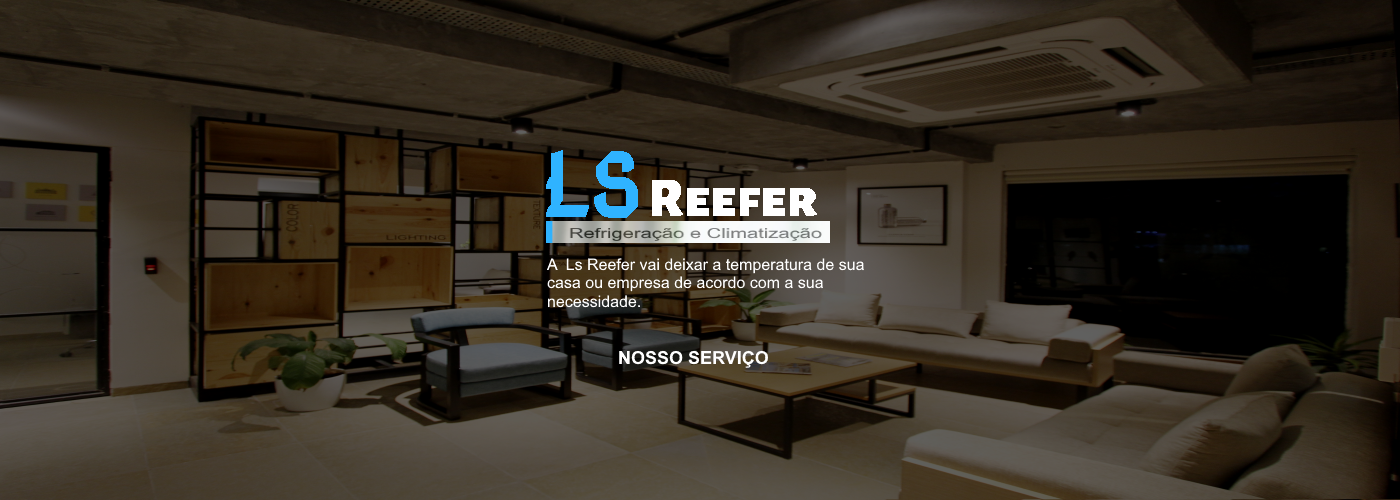
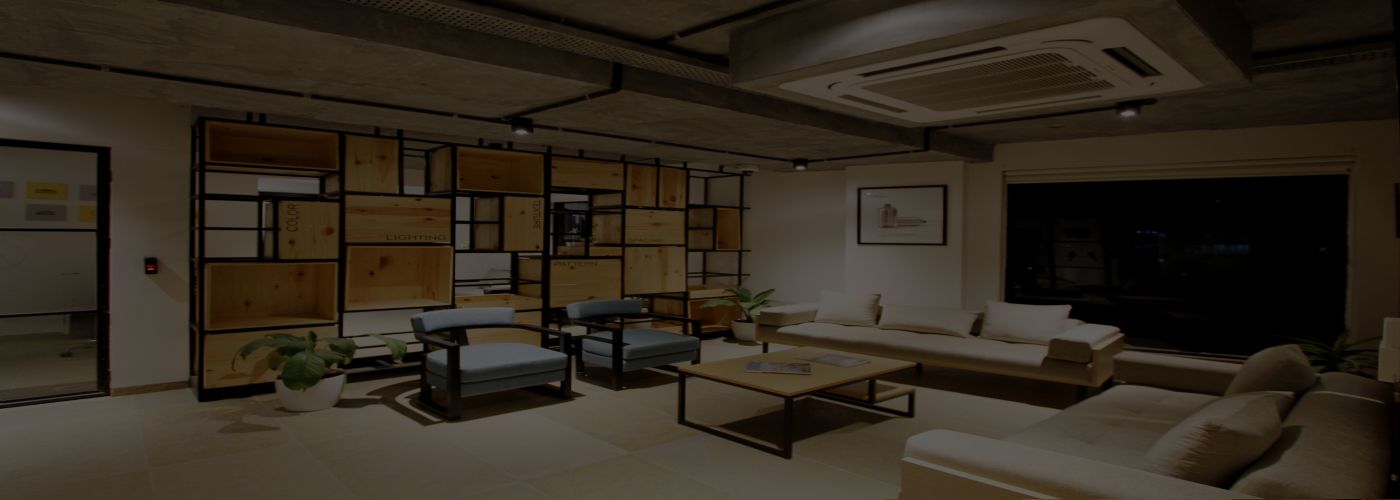
melhorando a sessao serviços

Changed region(s): [[0.3686, 0.3, 0.6143, 0.63], [0.43, 0.69, 0.5529, 0.75]]

diff --git a/manutencao_preventiva.html b/manutencao_preventiva.html
@@ -8,6 +8,7 @@
         <meta http-equiv="X-UA-Compatible" content="ie=edge">
         <title>Ls Reffer</title>
         <link href="https://fonts.googleapis.com/css?family=Open+Sans:300,400&display=swap" rel="stylesheet">
+        <link rel="stylesheet" href="css/style_servicos.css">
         <link rel="stylesheet" href="css/font-awesome.min.css">
         <link rel="stylesheet" href="css/style.css">
         <link rel="stylesheet" href="css/animationPencil.css">
@@ -17,6 +18,7 @@
     <body>
 
         <style>
+          
             header {
                 margin-bottom: 40px;
                 background-image: url(image/bannerServico.png);
@@ -25,79 +27,7 @@
                 background-size: cover ;
                 background-position: center;
             }
-            .icons-social a i {
-                margin-top: 0px;
-                margin-right: 15px;
-            }
-            .icons-social a { 
-                font-size: 35px;
-            }
-           
-            .chamada-servico h2 {
-                background-color: #333;
-            }
-            .center-arrow {
-                position: absolute;
-                top: 75%;
-                left: 49%;
-                transform: translate(-50% -50%);
-                -moz-transform: translate(-50% -50%);
-                -moz-transform: translate(-50% -50%);
-                -o-transform: translate(-50% -50%);
-                width: 0;
-                height: 100px;
-                border-left: 6px dashed rgba(255, 255, 255, 0.479);
-            }
-            .arrow {
-                position: absolute;
-                top: 0;
-                left: -6px;
-                height: 30px;
-                width: 6px;
-                background: white;
-                animation: animate 2s infinite;
-                -moz-animation:  animate 2s infinite;
-                -o-animation:  animate 2s infinite;
-                -webkit-animation:  animate 2s infinite;
-            }
-            .arrow::before {
-                content: '';
-                position: absolute;
-                bottom: 0;
-                left: -8px;
-                width: 15px;
-                height: 15px;
-                border-bottom: 6px solid white;
-                border-right: 6px solid white;
-                transform: rotate(45deg);
-                -moz-transform: rotate(45deg);
-                -moz-transform: rotate(45deg);
-                -o-transform:  rotate(45deg);
-            }
-            @keyframes animate {
-                0% {
-                    transform: translateY(0);
-                    -moz-transform: translateY(0);
-                    -moz-transform: translateY(0);
-                    -o-transform:  translateY(0);
-                    opacity: 0.5;
-                }
-                50% {
-                    transform: translateY(80px);
-                    -moz-transform: translateY(80px);
-                    -moz-transform: translateY(80px);
-                    -o-transform:  translateY(80px);
-                    opacity: 1;
-                }
-                100% {
-                    transform: translateY(160px);
-                    -moz-transform: translateY(160px);
-                    -moz-transform: translateY(160px);
-                    -o-transform:  translateY(160px);
-                    opacity: 0;
-                }
-            }
-            
+       
         </style>
 
         <header>
@@ -109,11 +39,11 @@
 
                 <nav id="menu-desktop">                
                     <ul>
-                        <li><a href="index.htm">Home</a></li>
-                        <li><a href="#">Sobre</a></li>
+                        <li><a href="index.htm">Home</a> > manutenção preventiva</li>
+                        <!-- <li><a href="#">Sobre</a></li>
                         <li><a href="#">Contato</a></li>
                         <li><a href="#">Serviços</a></li>
-                        <li><a href="#">Fotos</a></li>
+                        <li><a href="#">Fotos</a></li> -->
                     </ul>
                 </nav>
                 <div class="clear"></div>
@@ -140,9 +70,16 @@
 
                 <div class="center-arrow">
                     <div class="arrow"></div>
-                </div>
-              
+                </div>           
             </div><!--/container-->
+
+            <div id="conteudo-banner-servicos">
+                <div id="conteudo-servico">
+                    <h1><span>LS</span>REEFER</h1>
+                    <p>A Ls Reefer Refrigeração e Climatização vai deixar a temperatura de sua casa ou empresa de acordocom a sua necessidade.</p>
+                    <h2>Nosso Serviço</h2>                                          
+                </div>                                         
+            </div>
         </header>
 
         <div class="container">
@@ -174,6 +111,12 @@
             </div><!--container-->
         </article>
 
+        <div class="container-btn">
+            <div id="btn-home">
+                <a href="index.htm">Voltar ao menu!</a>
+            </div>
+        </div>
+
         <div id="top" >
             <a href="#"><img src="image/top.png" alt=""></a>
         </div>
@@ -196,10 +139,15 @@
                         <p>08:00 - 14:00</p>
                     </div>
                     <div class="box w6">
-                        <h2>Endereço</h2>
-                        <p>Rua presbitero João Leite 717</p>
-                        <p>Rocio Grande</p>
-                        <p>São Francisco do Sul - SC</p>
+                        <h2>Atendemos em</h2>
+                        <p>São Francisco do Sul</p>
+                        <p>Araguari</p>
+                        <p>Barra do Sul</p>
+                        <p>Barra Velha</p>
+                        <p>Itajaí</p>
+                        <p>Itapoá</p>
+                        <p>Joinville</p>         
+                        <p>Jaragua do Sul</p>  
                     </div>
                 </div>
             </div>
@@ -209,8 +157,8 @@
         <div class="max-container">
             <div class="container">
                 <div class="sub-footer">
-                    <p class="w6">Copyright ©2019 Ls Reefer | Todos os direitos reservados </p>
-                    <p class="w6">desenvolvido - <a target="_blank" href="https://www.linkedin.com/in/mauricio-girardi-39879596/">Mauricio Girardi</a></p>
+                        <p>Copyright © 2018-2019 | Ls Reefer CNPJ 32.459.975/0001-79 | Todos os direitos reservados </p>
+                        <p>desenvolvido por - <a target="_blank" href="https://www.facebook.com/mauricio.girardi.39?ref=bookmarks">Mauricio Girardi</a></p>
                 </div>
             </div>
         </div>

diff --git a/css/manutPrevtStyle.css b/css/manutPrevtStyle.css
@@ -10,7 +10,7 @@ body,html {
 }
 
 article {
-    margin: 50px 2% 100px 2%;
+    margin: 50px 2% 50px 2%;
 }
 
 .box1 {
